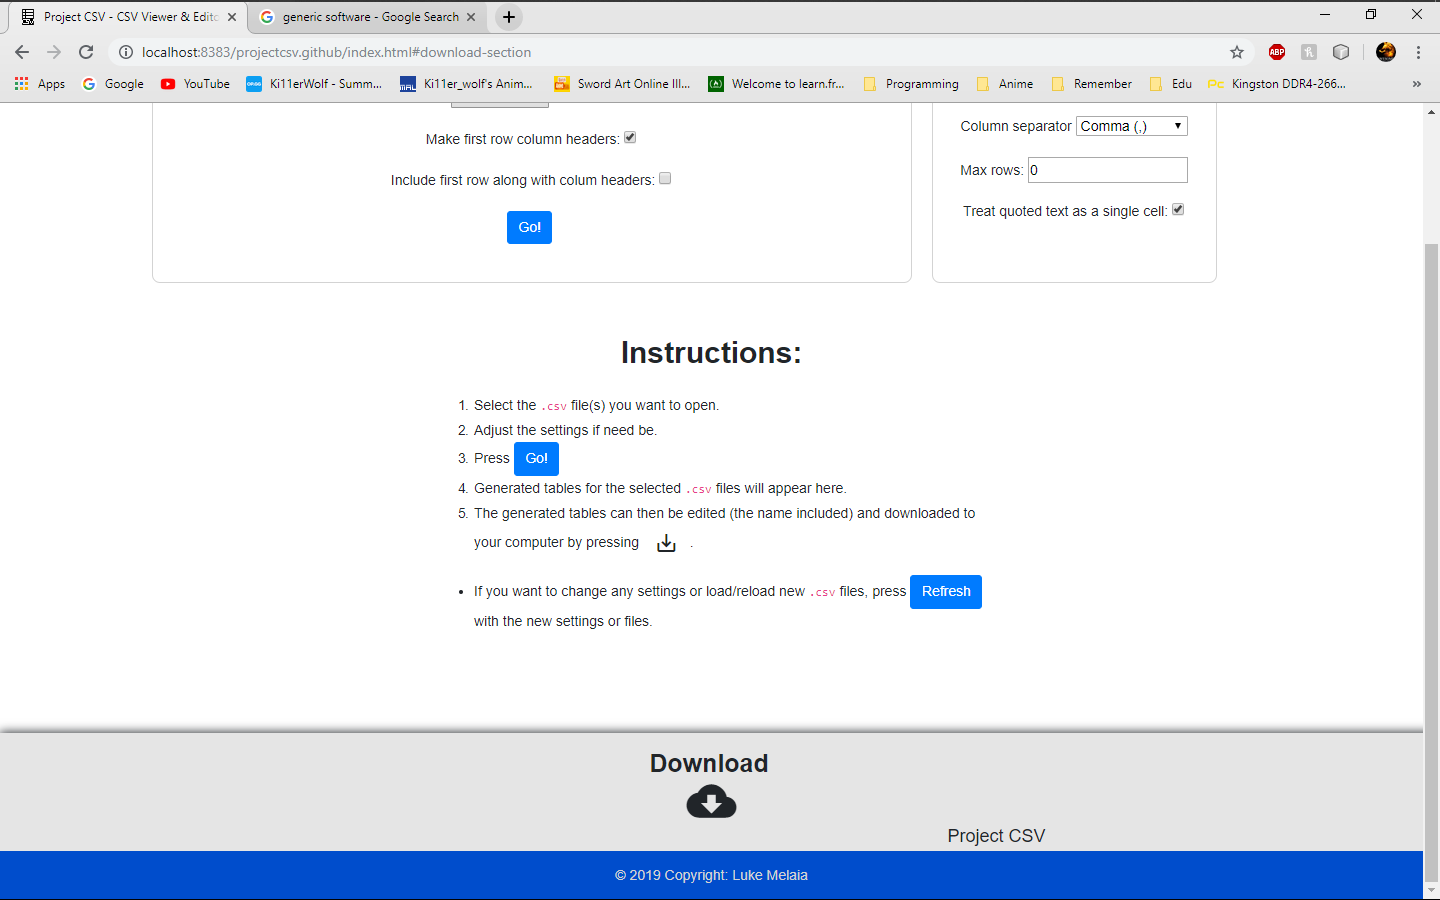
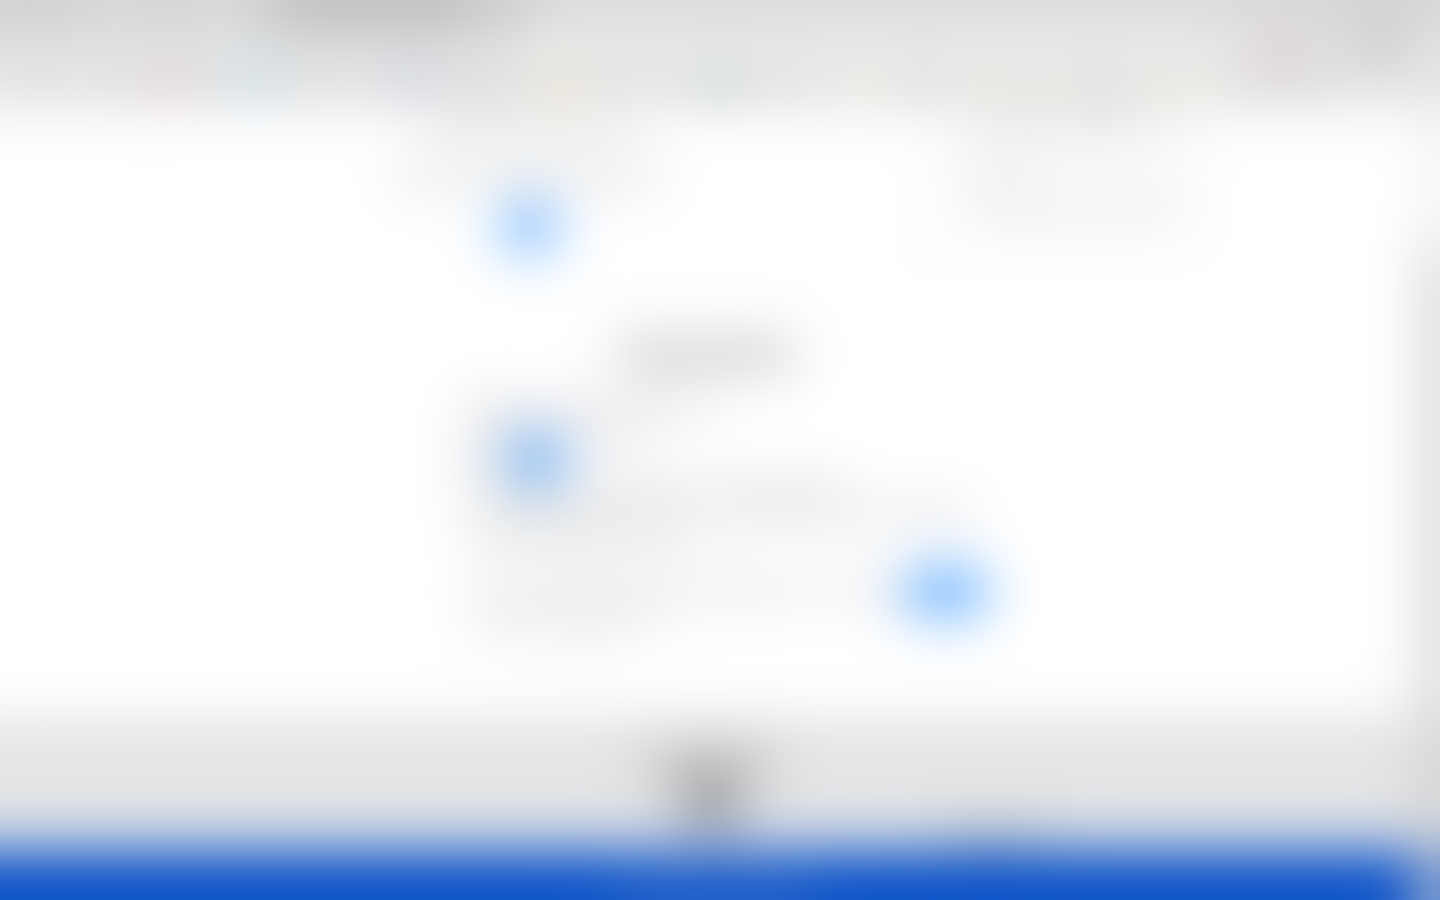
A couple finishing touch ups.

diff --git a/index.html b/index.html
@@ -138,6 +138,7 @@ along with this program.  If not, see <http://www.gnu.org/licenses/>.
                     </div>
                 </div>
             </div>
+            
             <!--                                Tables                      -->
             <div class="tables text-center" id="tables">
                 <div class="text-center" id="instructions">
@@ -166,7 +167,6 @@ along with this program.  If not, see <http://www.gnu.org/licenses/>.
         </div>
         
         <!--                          Download Section                      -->
-        
         <div id="download-section" class="text-center section">
             <b style="font-size: 25px;">Download</b>
             <br/>
@@ -185,7 +185,10 @@ along with this program.  If not, see <http://www.gnu.org/licenses/>.
                         licsense, for viewing and editing <code>.csv</code>
                         files on Windows.
                         <br/><br/>
-                        <button class="btn btn-primary" style="width: 75%">Download</button>
+                        <a class="btn btn-primary" style="width: 75%; background-color: darkgray; border-color: black">Download</a>
+                        <br/><br/>
+                        <p style="color: red">The Project CSV Desktop application
+                        is still in development. No downloads are available yet.</p>
                     </div>
                 </div>
             </div>
@@ -306,7 +309,4 @@ along with this program.  If not, see <http://www.gnu.org/licenses/>.
         <script src="js/index.js"></script>
         <script src="js/projectcsv.js"></script>
     </body>
-    
-    
 </html>
-

diff --git a/js/index.js b/js/index.js
@@ -191,7 +191,7 @@ var tableCount = 1;
  */
 function getTableUnit(title, tableHtml){
     var id = "table-" + tableCount;
-    var downloadButton = "<button title=\"Download the edited table (The name is also editable).\" onClick=\"downloadTable(" + tableCount + ")\" class=\"btn btn-default\"><i class=\"material-icons\" id=\"advanced-controls-display\">save_alt</i></button>";
+    var downloadButton = "<button title=\"Download the editable table.\" onClick=\"downloadTable(" + tableCount + ")\" class=\"btn btn-default\"><i class=\"material-icons\" id=\"advanced-controls-display\">save_alt</i></button>";
     var tableHolder = "<div class=\"table-holder\" id=\"" + id + "\"><p class=\"table-title\"><b contenteditable>{@name}</b> " + downloadButton + " </p>{@table}</div>";
     tableHolder = tableHolder.replace("{@name}", title);
     tableHolder = tableHolder.replace("{@table}", tableHtml);
